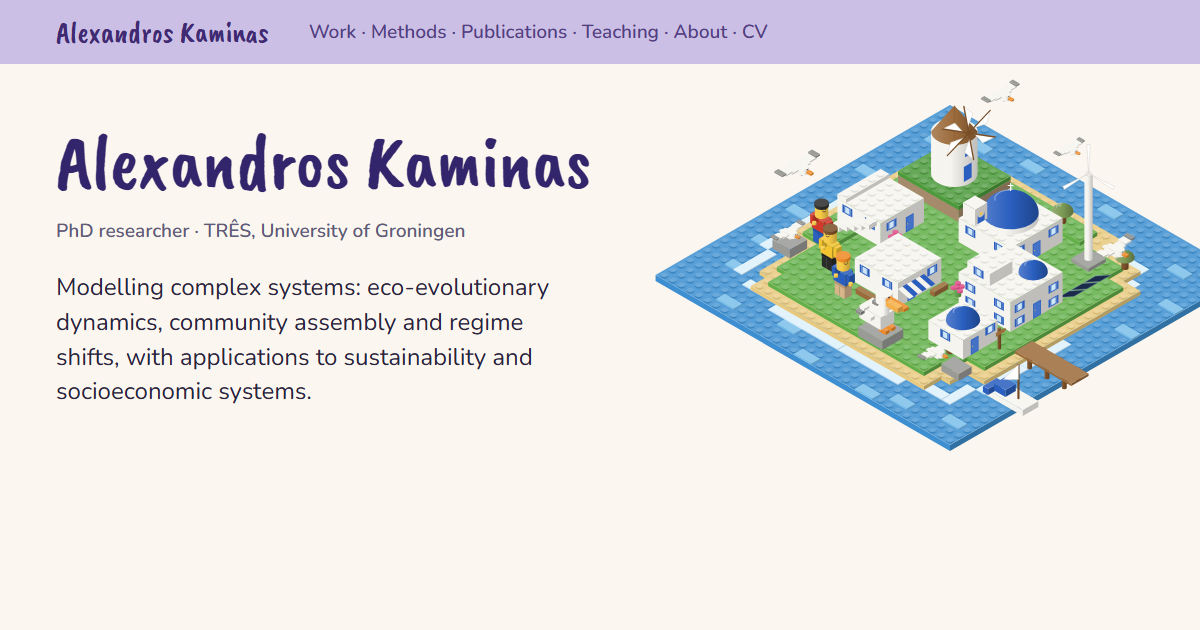
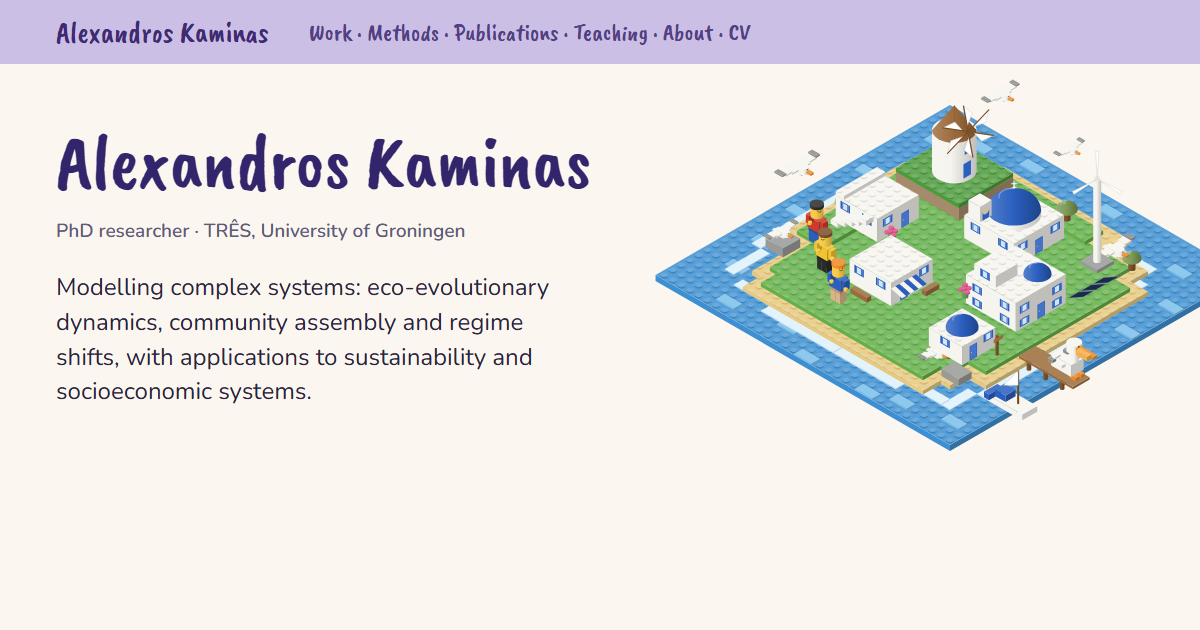
feat: airier island, pelican on the pier, brush-lettered navigation, one-line tagline
Island plates 4 % larger and objects 4 % smaller, houses spread apart,
the whole set 2.5 % wider; pelican moved to the end of the pier where it
stands against the water. Navigation and profile links set in the same
brush face as the wordmark; home tagline on one line without the full stop.

Changed region(s): [[0.5858, 0.181, 0.9558, 0.6635], [0.2467, 0.0302, 0.6475, 0.0905]]

diff --git a/scripts/og.html b/scripts/og.html
@@ -14,7 +14,7 @@
       html, body { margin: 0; width: 1200px; height: 630px; overflow: hidden; background: #fbf6ef; color: #2a2440; font-family: 'Nunito', sans-serif; }
       .bar { height: 64px; background: #cbbfe6; color: #3f2a73; font-family: 'Nunito', sans-serif; font-weight: 600; font-size: 21px; display: flex; align-items: center; padding: 0 56px; gap: 40px; }
       .bar span:first-child { font-family: 'Caveat Brush', cursive; font-weight: 400; font-size: 30px; }
-      .bar span + span { opacity: 0.85; font-size: 19px; }
+      .bar span + span { font-family: 'Caveat Brush', cursive; font-weight: 400; opacity: 0.85; font-size: 24px; }
       .wrap { position: relative; padding: 48px 56px 0; }
       h1 { font-family: 'Caveat Brush', cursive; font-weight: 400; font-size: 78px; margin: 0 0 8px; color: #33256b; letter-spacing: -0.01em; }
       p.role { font-family: 'Nunito', sans-serif; font-weight: 600; font-size: 19px; color: #625a7a; margin: 0 0 26px; }

diff --git a/DESIGN_SYSTEM.md b/DESIGN_SYSTEM.md
@@ -6,7 +6,7 @@ A pastel, illustrated personal site in the manner of an interactive academic hom
 
 1. **One illustration, and it is the map.** The island on the home page is the only picture besides the portrait. Every part of it leads somewhere: the sea to marine work, the island, its gulls and the pelican to island ecology, the three figures to social and economic systems, the wind turbine to sustainability, and each house to a page. A plain-text key under the figure repeats every link.
 2. **White and blue, on lavender and cream.** The island is Santorini: white cubes, blue domes, blue doors and shutters, a blue sea. The page around it is pastel: lavender bar, cream paper, purple accents. Nothing is neon.
-3. **Two faces, one of them handwritten.** Headings, the wordmark and the home tagline are Caveat Brush, a brush-marker script that reads as a hand-lettered sign; everything else — text, navigation, labels, dates, buttons — is Nunito, a rounded humanist sans, at 400 for text and 600–700 for the interface. The brush face is never used below heading size.
+3. **Two faces, one of them handwritten.** Headings, the wordmark, the navigation and the home tagline are Caveat Brush, a brush-marker script that reads as a hand-lettered sign; everything else — text, navigation, labels, dates, buttons — is Nunito, a rounded humanist sans, at 400 for text and 600–700 for the interface. The brush face is never used below heading size.
 4. **No annotation layer.** There are no figure numbers, plate numbers, zone numbers or clause numbers. Sections are headings with a hairline under them.
 5. **Progressive enhancement, no scripted motion.** Navigation, content and the island work without JavaScript; JavaScript adds only the mobile menu toggle and the colour-scheme toggle. The island's hover and focus effects are CSS transitions of 140–220 ms and collapse under `prefers-reduced-motion`.
 
@@ -14,9 +14,9 @@ A pastel, illustrated personal site in the manner of an interactive academic hom
 
 | Role | Face | Size / weight | Notes |
 | --- | --- | --- | --- |
-| Headings, wordmark, home tagline | Caveat Brush | display scale `--disp-1` … `--disp-4` (≈ 2.7–3.8 rem for H1), 400 | line-height 1.15, no tracking |
+| Headings, wordmark, navigation, home tagline | Caveat Brush | display scale `--disp-1` … `--disp-4` (≈ 2.7–3.8 rem for H1), 400 | line-height 1.15, no tracking |
 | Body | Nunito | 17–18 px, 400, italic for emphasis | line-height 1.65, measure 68ch |
-| Navigation, labels, dates, chips, buttons, footer, island labels | Nunito | 0.9–1 rem, 600–700 | |
+| Labels, dates, chips, buttons, footer, island labels | Nunito | 0.9–1 rem, 600–700 | |
 | Code | system monospace | 0.9 em | not self-hosted |
 
 Both fonts are self-hosted from `public/fonts/` as Latin-subset WOFF2 (Caveat Brush static 400; Nunito variable 200–1000, upright and italic; both SIL OFL 1.1; see `ASSET_PROVENANCE.md`), preloaded, `font-display: swap`. No remote font requests. Patrick Hand and Kalam were tried in the same position and set aside: Patrick Hand is thinner and reads as a schoolbook hand, Kalam is closer to a pen than a brush; Caveat Brush has the weight to sit over the island.
@@ -41,7 +41,7 @@ Light and dark schemes follow `prefers-color-scheme` by default. A header toggle
 
 The island itself uses fixed toy-brick colours (sea `#3d8fd1`, sand `#e8c97e`, grass `#63b04a`, white `#f6f4ef`, blue `#2a5fbf`) in both schemes, with three tones per colour (top lighter, left as is, right darker) and studs on every top surface.
 
-All text/background pairs meet WCAG 2.2 AA (4.5:1) in both schemes. Colour never carries information alone: the status dot always sits beside a word, the active navigation item is also bold and underlined, and every island part has a text label and a key entry.
+All text/background pairs meet WCAG 2.2 AA (4.5:1) in both schemes. Colour never carries information alone: the status dot always sits beside a word, the active navigation item is also underlined, and every island part has a text label and a key entry.
 
 ## The island
 
@@ -58,7 +58,7 @@ To change the island, edit the scene section of the script and run `node scripts
 
 ## Components
 
-- **Header** — the lavender bar: name, navigation (active item bold and underlined), profile links (GitHub, ORCID, Scholar) and the theme toggle. Menu button and toggle appear only with JS.
+- **Header** — the lavender bar: name, navigation (active item underlined), profile links (GitHub, ORCID, Scholar) and the theme toggle. Menu button and toggle appear only with JS.
 - **Footer** — name, position and affiliation, email, profile links, and the copyright line, which links to the privacy notice.
 - **PageHeader** — H1, optional lede, slot.
 - **Section** — heading with a hairline, optional intro, content; `wide` widens to the card grid.
